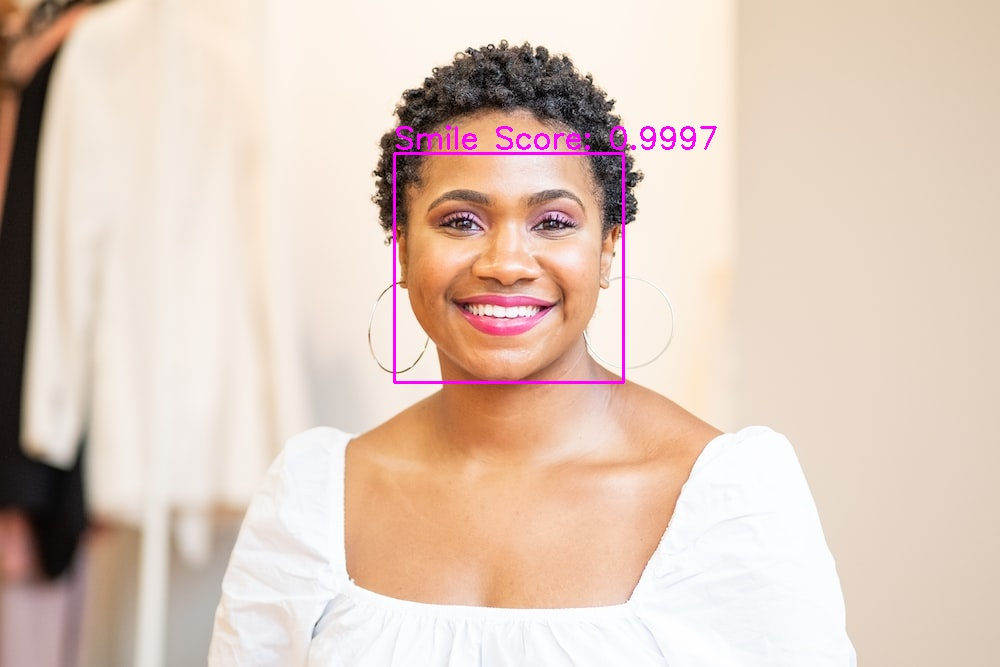
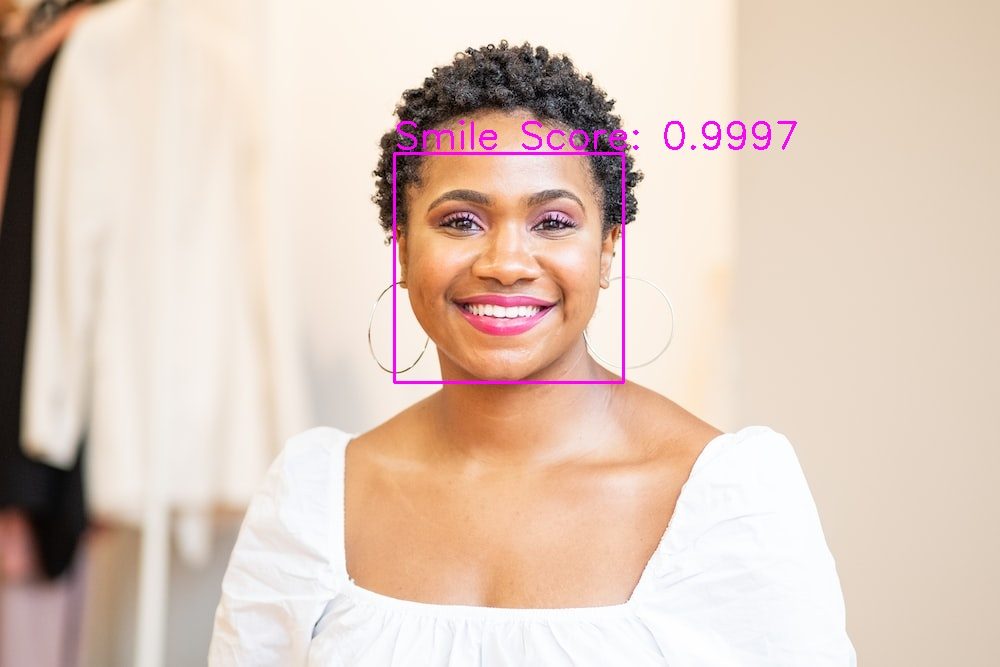
Added light conditions

Changed region(s): [[0.372, 0.1799, 0.806, 0.2399]]

diff --git a/test.py b/test.py
@@ -16,12 +16,12 @@ cudnn.benchmark = True
 parser = argparse.ArgumentParser(description='Run Inference RTSD for Smile Detection')
 parser.add_argument('-w', '--weights', type=str, help='Path to trained weights',default='RTSD_MNetv3.pth')
 
-default = [[f, f.replace('.jpg', '_blur.jpg'), f.replace('.jpg', '_low.jpg')] for f in ['test_images/inputs/test_input_1.jpg','test_images/inputs/test_input_2.jpg','test_images/inputs/test_input_3.jpg',
+default = [[f, f.replace('.jpg', '_light.jpg'), f.replace('.jpg', '_blur.jpg'), f.replace('.jpg', '_low.jpg')] for f in ['test_images/inputs/test_input_1.jpg','test_images/inputs/test_input_2.jpg','test_images/inputs/test_input_3.jpg',
                              'test_images/inputs/test_input_4.jpg']]
 
 parser.add_argument('-i', '--input', nargs='+', help='Sample input image path', default=sum(default, []))
 
-default = [[f, f.replace('.jpg', '_blur.jpg'), f.replace('.jpg', '_low.jpg')] for f in ['test_images/outputs/test_output_1.jpg','test_images/outputs/test_output_2.jpg','test_images/outputs/test_output_3.jpg',
+default = [[f, f.replace('.jpg', '_light.jpg'), f.replace('.jpg', '_blur.jpg'), f.replace('.jpg', '_low.jpg')] for f in ['test_images/outputs/test_output_1.jpg','test_images/outputs/test_output_2.jpg','test_images/outputs/test_output_3.jpg',
                              'test_images/outputs/test_output_4.jpg']]
 
 parser.add_argument('-o', '--output', nargs='+', help='Sample output image path', default=sum(default, []))
@@ -60,6 +60,9 @@ with torch.no_grad():
         img = cv2.cvtColor(np.array(img), cv2.COLOR_RGB2BGR)
         for (left, top, right, bottom), score in zip(boxes, smile_scores):
             cv2.rectangle(img, (int(left), int(top)), (int(right), int(bottom)), (255, 0, 255), 2)
-            cv2.putText(img, f'Smile Score: {score[0]:.4f}',(int(left), int(top) - 5), cv2.FONT_HERSHEY_SIMPLEX, 1, (255, 0, 255), 2)
+            if img.shape[1] < 1025:
+                cv2.putText(img, f'Smile Score: {score[0]:.4f}',(int(left), int(top) - 5), cv2.FONT_HERSHEY_SIMPLEX, 1.25, (255, 0, 255), 2)
+            else:
+                cv2.putText(img, f'Smile Score: {score[0]:.4f}',(int(left), int(top) - 5), cv2.FONT_HERSHEY_SIMPLEX, 2, (255, 0, 255), 4)
         
         cv2.imwrite(variables['output'][i], img)

diff --git a/README.md b/README.md
@@ -88,9 +88,9 @@ You can download the pretrained weights [here](https://drive.google.com/file/d/1
 
 ## Results
 
-Original Image | Blurry Image | Downscaled
+Light Conditions | Blurry Image | Downscaled
 :-------------------------:|:-------------------------:|:-------------------------:
-<img src="test_images/outputs/test_output_1.jpg" width="480"/> |  <img src="test_images/outputs/test_output_1_blur.jpg" width="480"/> |  <img src="test_images/outputs/test_output_1_low.jpg" width="480"/>
-<img src="test_images/outputs/test_output_2.jpg" width="480"/> | <img src="test_images/outputs/test_output_2_blur.jpg" width="480"/> |  <img src="test_images/outputs/test_output_2_low.jpg" width="480"/>
-<img src="test_images/outputs/test_output_3.jpg" width="480"/> | <img src="test_images/outputs/test_output_3_blur.jpg" width="480"/> |  <img src="test_images/outputs/test_output_3_low.jpg" width="480"/>
-<img src="test_images/outputs/test_output_4.jpg" width="480"/> | <img src="test_images/outputs/test_output_4_blur.jpg" width="480"/> |  <img src="test_images/outputs/test_output_4_low.jpg" width="480"/>
+<img src="test_images/outputs/test_output_1_light.jpg" width="480"/> |  <img src="test_images/outputs/test_output_1_blur.jpg" width="480"/> |  <img src="test_images/outputs/test_output_1_low.jpg" width="480"/>
+<img src="test_images/outputs/test_output_2_light.jpg" width="480"/> | <img src="test_images/outputs/test_output_2_blur.jpg" width="480"/> |  <img src="test_images/outputs/test_output_2_low.jpg" width="480"/>
+<img src="test_images/outputs/test_output_3_light.jpg" width="480"/> | <img src="test_images/outputs/test_output_3_blur.jpg" width="480"/> |  <img src="test_images/outputs/test_output_3_low.jpg" width="480"/>
+<img src="test_images/outputs/test_output_4_light.jpg" width="480"/> | <img src="test_images/outputs/test_output_4_blur.jpg" width="480"/> |  <img src="test_images/outputs/test_output_4_low.jpg" width="480"/>
